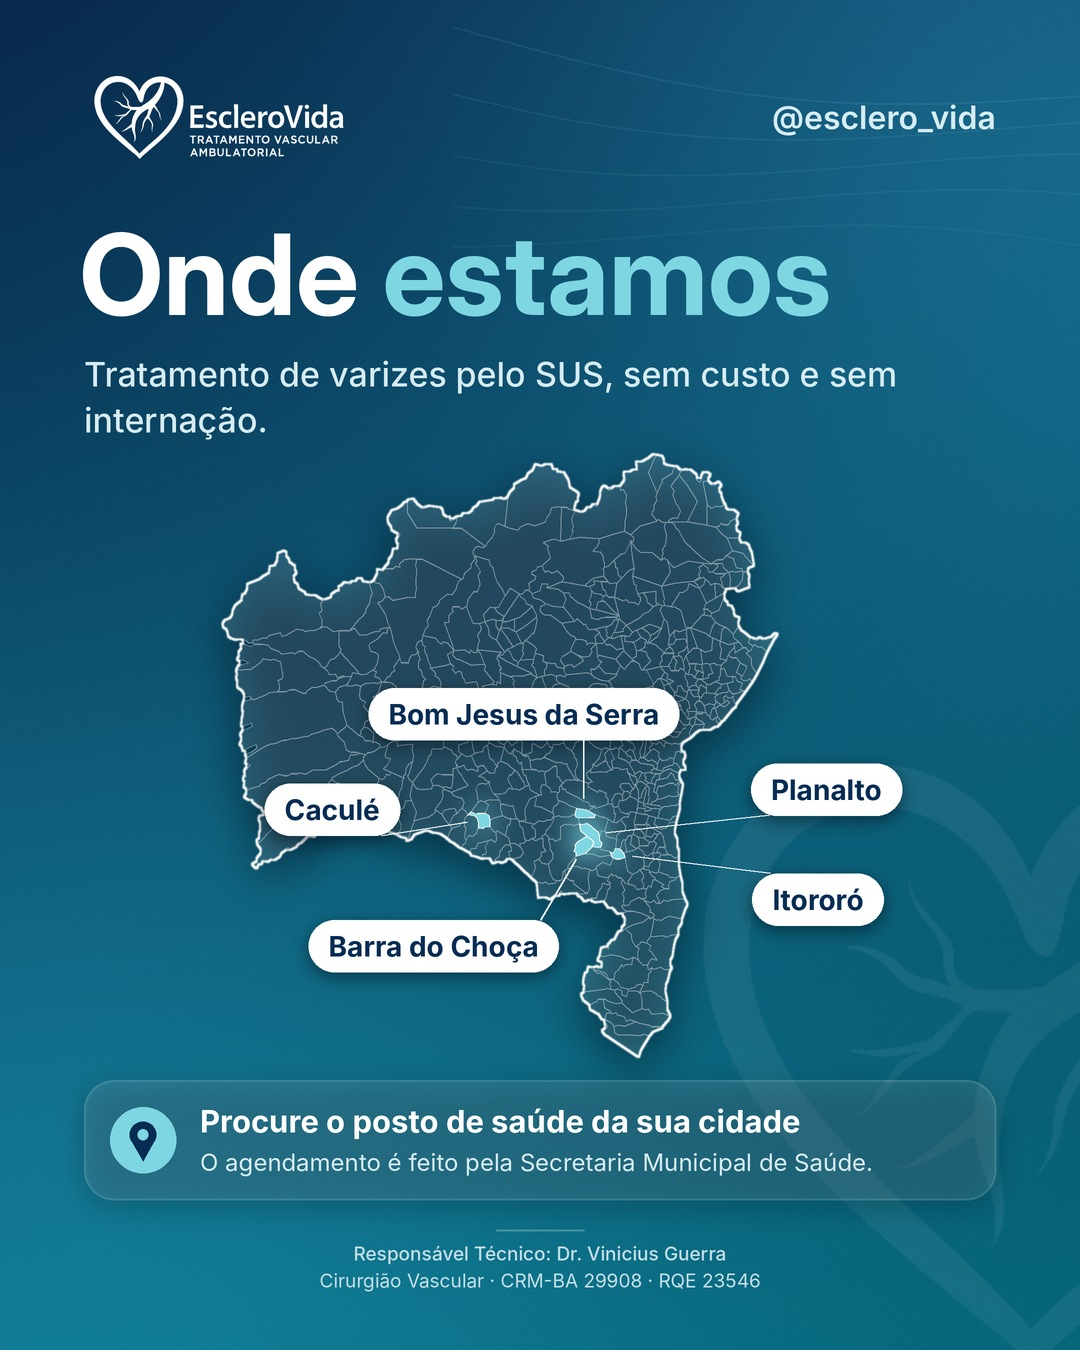
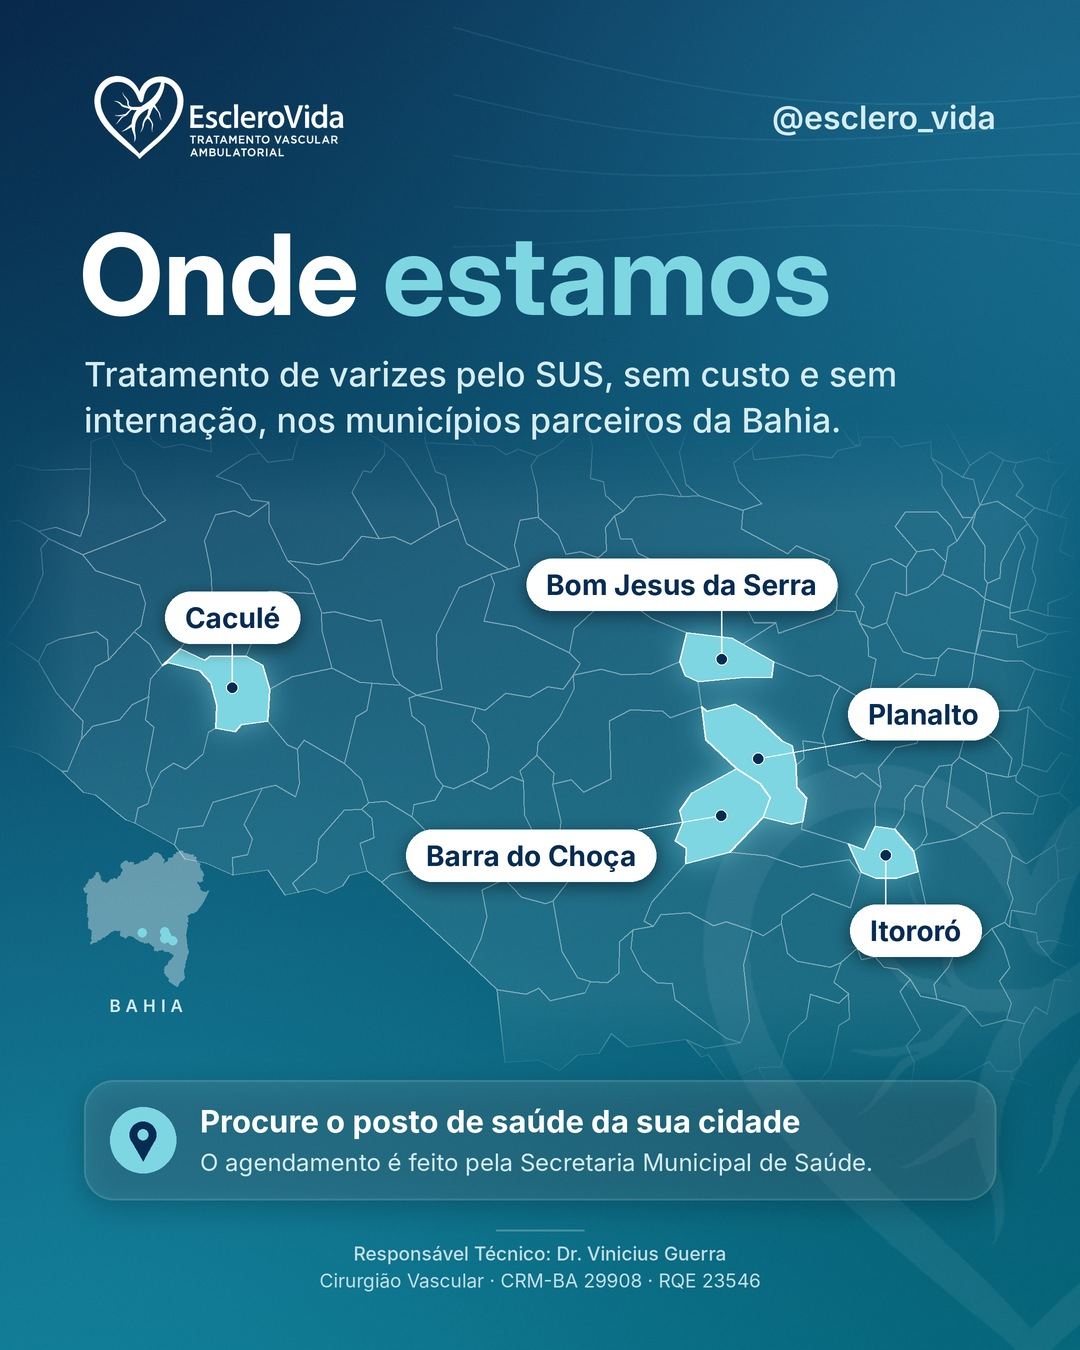
Mapa Onde estamos: volta ao zoom na região, com divisas mais visíveis
Claude-Session: https://claude.ai/code/session_01M29iTLLFwMWrnxrojtZwME

diff --git a/gerador/mapa.py b/gerador/mapa.py
@@ -128,7 +128,7 @@ def render(p, saida):
     dm = ImageDraw.Draw(mapa)
     sil = Image.new("L", img.size, 0)
     ds = ImageDraw.Draw(sil)
-    a_fill, a_linha = (30, 120) if estado else (13, 52)
+    a_fill, a_linha = (30, 120) if estado else (20, 125)
     for m in muns:
         for a in m["aneis"]:
             pol = [xy(*q) for q in a]
@@ -239,7 +239,7 @@ def render(p, saida):
                 ld.polygon([bxy(*q) for q in a], fill=WHITE + (255,))
         sil = lay.getchannel("A").filter(ImageFilter.MaxFilter(3))
         lay = Image.new("RGBA", img.size, WHITE + (0,))
-        lay.putalpha(sil.point(lambda v: v * 0.26))
+        lay.putalpha(sil.point(lambda v: v * 0.36))
         img = Image.alpha_composite(img, lay)
         d = ImageDraw.Draw(img)
         for m in muns:
